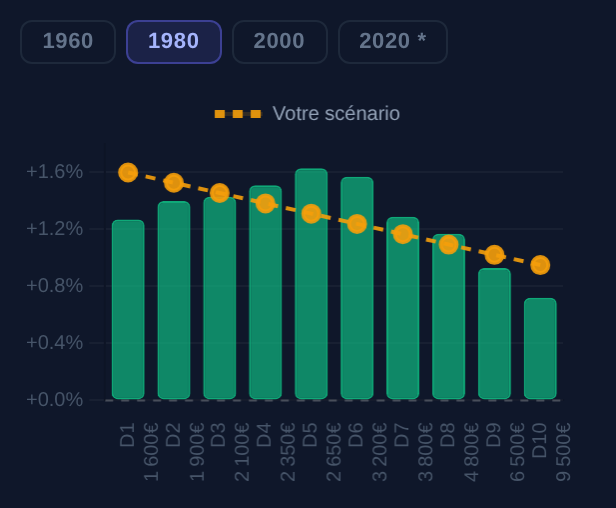
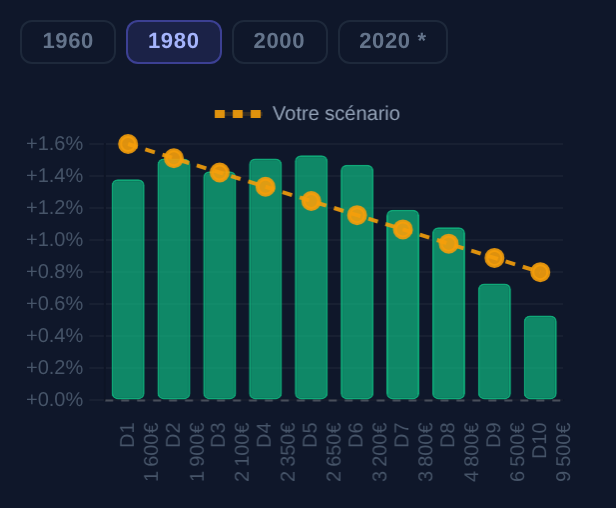
Add files via upload
TRI : écarts d'espérance de vie par décile INSEE

diff --git a/index.html b/index.html
@@ -896,9 +896,9 @@
         }
         .comp-ref-tick {
             position: absolute;
-            /* réf. = TRI uniforme à coût nul, génération 1980 : +1,20 %
-               (1.20+2)/4 = 80% ; correction thumb ≈ 8px sur largeur totale */
-            left: calc(80% - 8px * (1 - 2 * 0.80));
+            /* réf. = TRI uniforme à coût nul, génération 1980 : +1,10 %
+               (1.10+2)/4 = 77.5% ; correction thumb ≈ 8px sur largeur totale */
+            left: calc(77.5% - 8px * (1 - 2 * 0.775));
             top: 100%;
             display: flex;
             flex-direction: column;
@@ -1100,20 +1100,20 @@
                     <div class="comp-slider-row">
                         <span class="comp-slider-label">D1 (bas sal.)</span>
                         <div class="comp-slider-wrap">
-                            <input type="range" id="comp-d1" min="-2" max="2" step="0.05" value="1.2"
+                            <input type="range" id="comp-d1" min="-2" max="2" step="0.05" value="1.1"
                                    oninput="onCompSlider()">
                             <span class="comp-ref-tick"><span class="comp-ref-tick-label">réf.</span></span>
                         </div>
-                        <span class="comp-tri-val" id="comp-d1-val">+1.20%</span>
+                        <span class="comp-tri-val" id="comp-d1-val">+1.10%</span>
                     </div>
                     <div class="comp-slider-row">
                         <span class="comp-slider-label">D10 (haut sal.)</span>
                         <div class="comp-slider-wrap">
-                            <input type="range" id="comp-d10" min="-2" max="2" step="0.05" value="1.2"
+                            <input type="range" id="comp-d10" min="-2" max="2" step="0.05" value="1.1"
                                    oninput="onCompSlider()">
                             <span class="comp-ref-tick"><span class="comp-ref-tick-label">réf.</span></span>
                         </div>
-                        <span class="comp-tri-val" id="comp-d10-val">+1.20%</span>
+                        <span class="comp-tri-val" id="comp-d10-val">+1.10%</span>
                     </div>
                     <div class="comp-results">
                         <div class="comp-result-box">
@@ -1341,7 +1341,7 @@
                 (τ × salaire × durée carrière) et des pensions reçues (TR × salaire × durée retraite).
                 Paramètres par décile : taux de cotisation τ (~18–29 % selon génération, COR 2026 p.134) ·
                 taux de remplacement brut (COR 2026 : D1 = 82 %, D5 = 73 %, D10 = 43 %) ·
-                espérance de vie des hommes par génération (INSEE 2023, à 65 ans), écart D1–D10 de 8 ans estimé (DREES 2013) ·
+                espérance de vie des hommes à 65 ans par génération (INSEE 2023) et par niveau de vie (INSEE 2012-2016) ·
                 âge d'entrée estimé (D1 = 19 ans, D5 = 22 ans, D10 = 25 ans). (* 2020 : projection prospective.)
             </div>
 
@@ -1961,16 +1961,16 @@ function update() {
 // Textes d'interprétation par génération (les TRI affichés sont calculés dynamiquement par updateTriChart)
 const TRI_GEN_DATA = {
     "1960": {
-        interp: "La génération la plus favorisée : TRI compris entre +2,2 % et +3,1 % selon le décile. Départ à 61 ans, cotisations faibles (~18 %) et retraite longue : un homme né en 1960 qui atteint 65 ans vit encore 21 ans en moyenne (INSEE). Le pic se situe en D5–D6."
+        interp: "La génération la plus favorisée : TRI compris entre +2,1 % et +3,1 % selon le décile. Départ à 61 ans, cotisations faibles (~18 %) et retraite longue : un homme né en 1960 qui atteint 65 ans vit encore 21 ans en moyenne (INSEE). Les déciles D2 à D5 sont les mieux servis, D10 l'est le moins."
     },
     "1980": {
-        interp: "Interprétation : pour la génération 1980, tous les déciles ont un TRI positif, mais inégal. D1 (ouvrier) a une espérance de vie plus courte (~85 ans contre ~93 ans pour D10), ce qui limite la durée de sa retraite malgré un taux de remplacement de 82 %. D9–D10 (cadres) vivent plus longtemps mais leur taux de remplacement faible (43 %) les place en bas de l'échelle. <span style=\"font-weight:700;color:var(--orange)\">C'est la classe médiane (D4–D5) qui tire le meilleur parti du système.</span>"
+        interp: "Interprétation : pour la génération 1980, tous les déciles ont un TRI positif, autour de +1,4 % à +1,5 % de D1 à D6, puis en baisse jusqu'à +0,5 % pour D10. D1 (ouvrier) vit moins longtemps (~86 ans contre ~91 ans pour D10), mais son taux de remplacement élevé (82 %) compense. <span style=\"font-weight:700;color:var(--orange)\">Ce sont les hauts revenus (D9–D10) qui tirent le moins parti du système</span> : leur taux de remplacement faible (43 %) n'est pas compensé par leur espérance de vie plus longue."
     },
     "2000": {
-        interp: "TRI légèrement inférieur à celui de la génération 1980 pour tous les déciles : le gain d'espérance de vie (environ +2 ans à 65 ans, INSEE) ne compense pas tout à fait des cotisations plus élevées (~28 % contre ~25 %). La bosse centrale (D4–D5) persiste."
+        interp: "TRI légèrement inférieur à celui de la génération 1980 pour tous les déciles : le gain d'espérance de vie (environ +2 ans à 65 ans, INSEE) ne compense pas tout à fait des cotisations plus élevées (~28 % contre ~25 %). Même forme : un plateau de D1 à D6, puis une baisse jusqu'à D10."
     },
     "2020": {
-        interp: "Projection très incertaine. Départ à 65 ans et cotisations les plus élevées (~29 %) : c'est la génération au TRI le plus faible, même si elle vivrait en moyenne jusqu'à ~93 ans (projection INSEE). Tous les profils resteraient positifs, D10 se rapprochant de zéro — à condition que les écarts d'espérance de vie entre catégories sociales ne s'aggravent pas."
+        interp: "Projection très incertaine. Départ à 65 ans et cotisations les plus élevées (~29 %) : c'est la génération au TRI le plus faible, même si elle vivrait en moyenne jusqu'à ~93 ans (projection INSEE). Tous les profils resteraient positifs, D10 se rapprochant de zéro — à condition que les écarts d'espérance de vie entre niveaux de vie ne s'aggravent pas."
     }
 };
 
@@ -1981,14 +1981,14 @@ const TRI_GEN_DATA = {
 const TRI_AGE_ENTREE = [19, 19.75, 20.5, 21.25, 22, 22.6, 23.2, 23.8, 24.4, 25];
 
 // Âge moyen de décès par décile et par génération (hommes).
-// D5 = 65 ans + espérance de vie à 65 ans de la génération (INSEE, Insee Première n° 1927, 2023,
+// Moyenne de la génération = 65 ans + espérance de vie à 65 ans (INSEE, Insee Première n° 1927, 2023,
 // scénario central) : 1960 → 86,2 · 1980 → 88,7 · 2000 → 90,8 · 2020 → 92,7.
-// Écart entre déciles (−4 ans pour D1, +4 ans pour D10) : estimation d'après DREES 2013, identique
-// pour toutes les générations.
-const TRI_EV_ECART = [-4, -3, -2, -1, 0, 0.8, 1.6, 2.4, 3.2, 4];
-const TRI_EV_D5    = { "1960": 86.2, "1980": 88.7, "2000": 90.8, "2020": 92.7 };
-const TRI_EV = Object.fromEntries(Object.entries(TRI_EV_D5).map(
-    ([gen, d5]) => [gen, TRI_EV_ECART.map(e => Math.round((d5 + e) * 10) / 10)]
+// Écart de chaque décile à cette moyenne : espérance de vie à 65 ans par décile de niveau de vie
+// (INSEE, tables de mortalité par niveau de vie, hommes, 2012-2016), appliqué à toutes les générations.
+const TRI_EV_ECART = [-3.0, -2.2, -1.6, -1.1, -0.6, -0.2, 0.3, 0.8, 1.6, 2.5];
+const TRI_EV_MOY   = { "1960": 86.2, "1980": 88.7, "2000": 90.8, "2020": 92.7 };
+const TRI_EV = Object.fromEntries(Object.entries(TRI_EV_MOY).map(
+    ([gen, moy]) => [gen, TRI_EV_ECART.map(e => Math.round((moy + e) * 10) / 10)]
 ));
 
 // TR brut de référence par décile — interpolation linéaire entre ancres COR
@@ -2346,8 +2346,8 @@ function resetAll() {
     if (compActive) compActive.checked = false;
     const compBody = document.getElementById('comp-body');
     if (compBody) compBody.classList.add('disabled');
-    document.getElementById('comp-d1').value  = 1.2;
-    document.getElementById('comp-d10').value = 1.2;
+    document.getElementById('comp-d1').value  = 1.1;
+    document.getElementById('comp-d10').value = 1.1;
     refreshAllBubbles();
     update();
 }

diff --git a/notice.html b/notice.html
@@ -411,7 +411,7 @@
 
       <div class="example">
         <strong>Pourquoi le TRI varie selon les déciles ?</strong><br>
-        D1 commence à travailler jeune (vers 19 ans), a une carrière longue et une espérance de vie plus courte : son rendement est inférieur à celui des salaires moyens. D10 commence à travailler tard (études longues) et vit plus longtemps à la retraite, mais son taux de remplacement faible (43 %) lui donne le rendement le plus bas.
+        D1 commence à travailler jeune (vers 19 ans), a une carrière longue et une espérance de vie plus courte, mais son taux de remplacement élevé (82 %) compense : son rendement est proche de celui des salaires moyens. D10 commence à travailler tard (études longues) et vit plus longtemps à la retraite, mais son taux de remplacement faible (43 %) lui donne le rendement le plus bas.
       </div>
     </div>
   </div>
@@ -582,31 +582,31 @@
     </div>
     <div class="lever-desc">Le taux de rendement que l'on souhaite garantir (ou imposer) à chaque extrémité de l'échelle des revenus.</div>
 
-    <p><strong>TRI D1 relevé :</strong> on fixe pour les travailleurs modestes une cible supérieure à leur TRI actuel (environ +1,3 % pour la génération 1980). Cela nécessite de verser un complément de pension — un coût pour le système.</p>
+    <p><strong>TRI D1 relevé :</strong> on fixe pour les travailleurs modestes une cible supérieure à leur TRI actuel (environ +1,4 % pour la génération 1980). Cela nécessite de verser un complément de pension — un coût pour le système.</p>
 
-    <p><strong>TRI D10 abaissé :</strong> on fixe pour les hauts revenus une cible inférieure à leur TRI actuel (environ +0,7 % pour la génération 1980). Leur pension est volontairement réduite — ce qui génère une économie pour le système. C'est un mécanisme de solidarité explicite.</p>
+    <p><strong>TRI D10 abaissé :</strong> on fixe pour les hauts revenus une cible inférieure à leur TRI actuel (environ +0,5 % pour la génération 1980). Leur pension est volontairement réduite — ce qui génère une économie pour le système. C'est un mécanisme de solidarité explicite.</p>
 
     <p>Le coût net (ou l'économie nette) de cette redistribution est affiché dans le simulateur et intégré au solde global.</p>
 
     <div class="example">
       <strong>La situation actuelle (compensation désactivée) :</strong><br>
-      Sans redistribution, le graphique du simulateur (génération 1980) montre un rendement positif pour tous, mais inégal : environ +1,3 % pour D1, +1,6 % pour D5 et +0,7 % pour D10.<br><br>
-      Pourquoi D1 est-il en dessous des salaires moyens ? Les travailleurs modestes commencent à travailler jeunes, ont des carrières longues — et une <strong>espérance de vie plus courte</strong>. Résultat : ils cotisent longtemps, mais touchent leur retraite pendant moins d'années.<br><br>
+      Sans redistribution, le graphique du simulateur (génération 1980) montre un rendement positif pour tous, mais inégal : environ +1,4 % à +1,5 % de D1 à D6, puis une baisse jusqu'à +0,5 % pour D10.<br><br>
+      Pourquoi D1 n'est-il pas au-dessus des autres, malgré son taux de remplacement élevé ? Les travailleurs modestes commencent à travailler jeunes, ont des carrières longues — et une <strong>espérance de vie plus courte</strong> (environ 5 ans de moins que D10 à 65 ans, selon l'INSEE). Résultat : ils cotisent longtemps, mais touchent leur retraite pendant moins d'années.<br><br>
       Pourquoi D9–D10 ont-ils le rendement le plus bas ? Malgré une espérance de vie plus longue (qui devrait améliorer leur TRI), leur <strong>taux de remplacement est faible</strong> (43 % pour D10) car le système plafonne les droits au-delà d'un certain salaire. Ils contribuent donc plus au financement collectif qu'ils ne récupèrent en proportion.<br><br>
-      Les déciles D4 à D6 — les salaires intermédiaires — sont les grands bénéficiaires du système actuel en termes de rendement pur.<br><br>
-      <strong>Les curseurs d'équité permettent de corriger ces déséquilibres</strong> en fixant des cibles de rendement différentes : par exemple, relever le TRI de D1, ou demander un effort plus explicite à D10. Par défaut, les deux curseurs sont placés sur la valeur « réf. » (+1,20 %) : c'est le TRI identique pour tous les déciles qui ne coûte ni ne rapporte rien au système.
+      En termes de rendement pur, les hauts revenus sont donc les moins bien servis par le système actuel ; les autres déciles sont à peu près au même niveau.<br><br>
+      <strong>Les curseurs d'équité permettent de corriger ces déséquilibres</strong> en fixant des cibles de rendement différentes : par exemple, relever le TRI de D1, ou demander un effort plus explicite à D10. Par défaut, les deux curseurs sont placés sur la valeur « réf. » (+1,10 %) : c'est le TRI identique pour tous les déciles qui ne coûte ni ne rapporte rien au système.
     </div>
     <div style="margin:16px 0;text-align:center;">
       <p style="color:var(--muted);font-size:.85rem;margin-bottom:8px;">Exemple — TRI par décile, génération 1980, scénario de référence (compensation désactivée)</p>
       <img src="tri-exemple.png" alt="Graphique TRI par décile — génération 1980" style="width:260px;border-radius:10px;border:1px solid var(--border);">
     </div>
 
-    <p>On peut choisir de corriger ces inégalités en jouant sur les curseurs d'équité. Dans l'exemple ci-dessous, le TRI de D1 a été fixé à +1,60 % et celui de D10 à +0,95 %. Le coût global est neutre pour le système, mais correspond à une baisse de "rentabilité" pour les déciles du milieu, qui financent en partie la redistribution.</p>
+    <p>On peut choisir de corriger ces inégalités en jouant sur les curseurs d'équité. Dans l'exemple ci-dessous, le TRI de D1 a été fixé à +1,60 % et celui de D10 à +0,80 %. Le coût global est quasi neutre pour le système (−0,8 Md€/an), mais correspond à une baisse de "rentabilité" pour les déciles du milieu, qui financent en partie la redistribution.</p>
 
     <div style="margin:16px 0;display:flex;gap:16px;align-items:flex-start;justify-content:center;flex-wrap:wrap;">
       <div style="text-align:center;">
         <p style="color:var(--muted);font-size:.85rem;margin-bottom:8px;">Réglage des curseurs</p>
-        <img src="tri-exemple%203.png" alt="Curseurs TRI D1=+1,60% D10=+0,95%" style="width:260px;border-radius:10px;border:1px solid var(--border);">
+        <img src="tri-exemple%203.png" alt="Curseurs TRI D1=+1,60% D10=+0,80%" style="width:260px;border-radius:10px;border:1px solid var(--border);">
       </div>
       <div style="text-align:center;">
         <p style="color:var(--muted);font-size:.85rem;margin-bottom:8px;">TRI résultant par décile</p>
